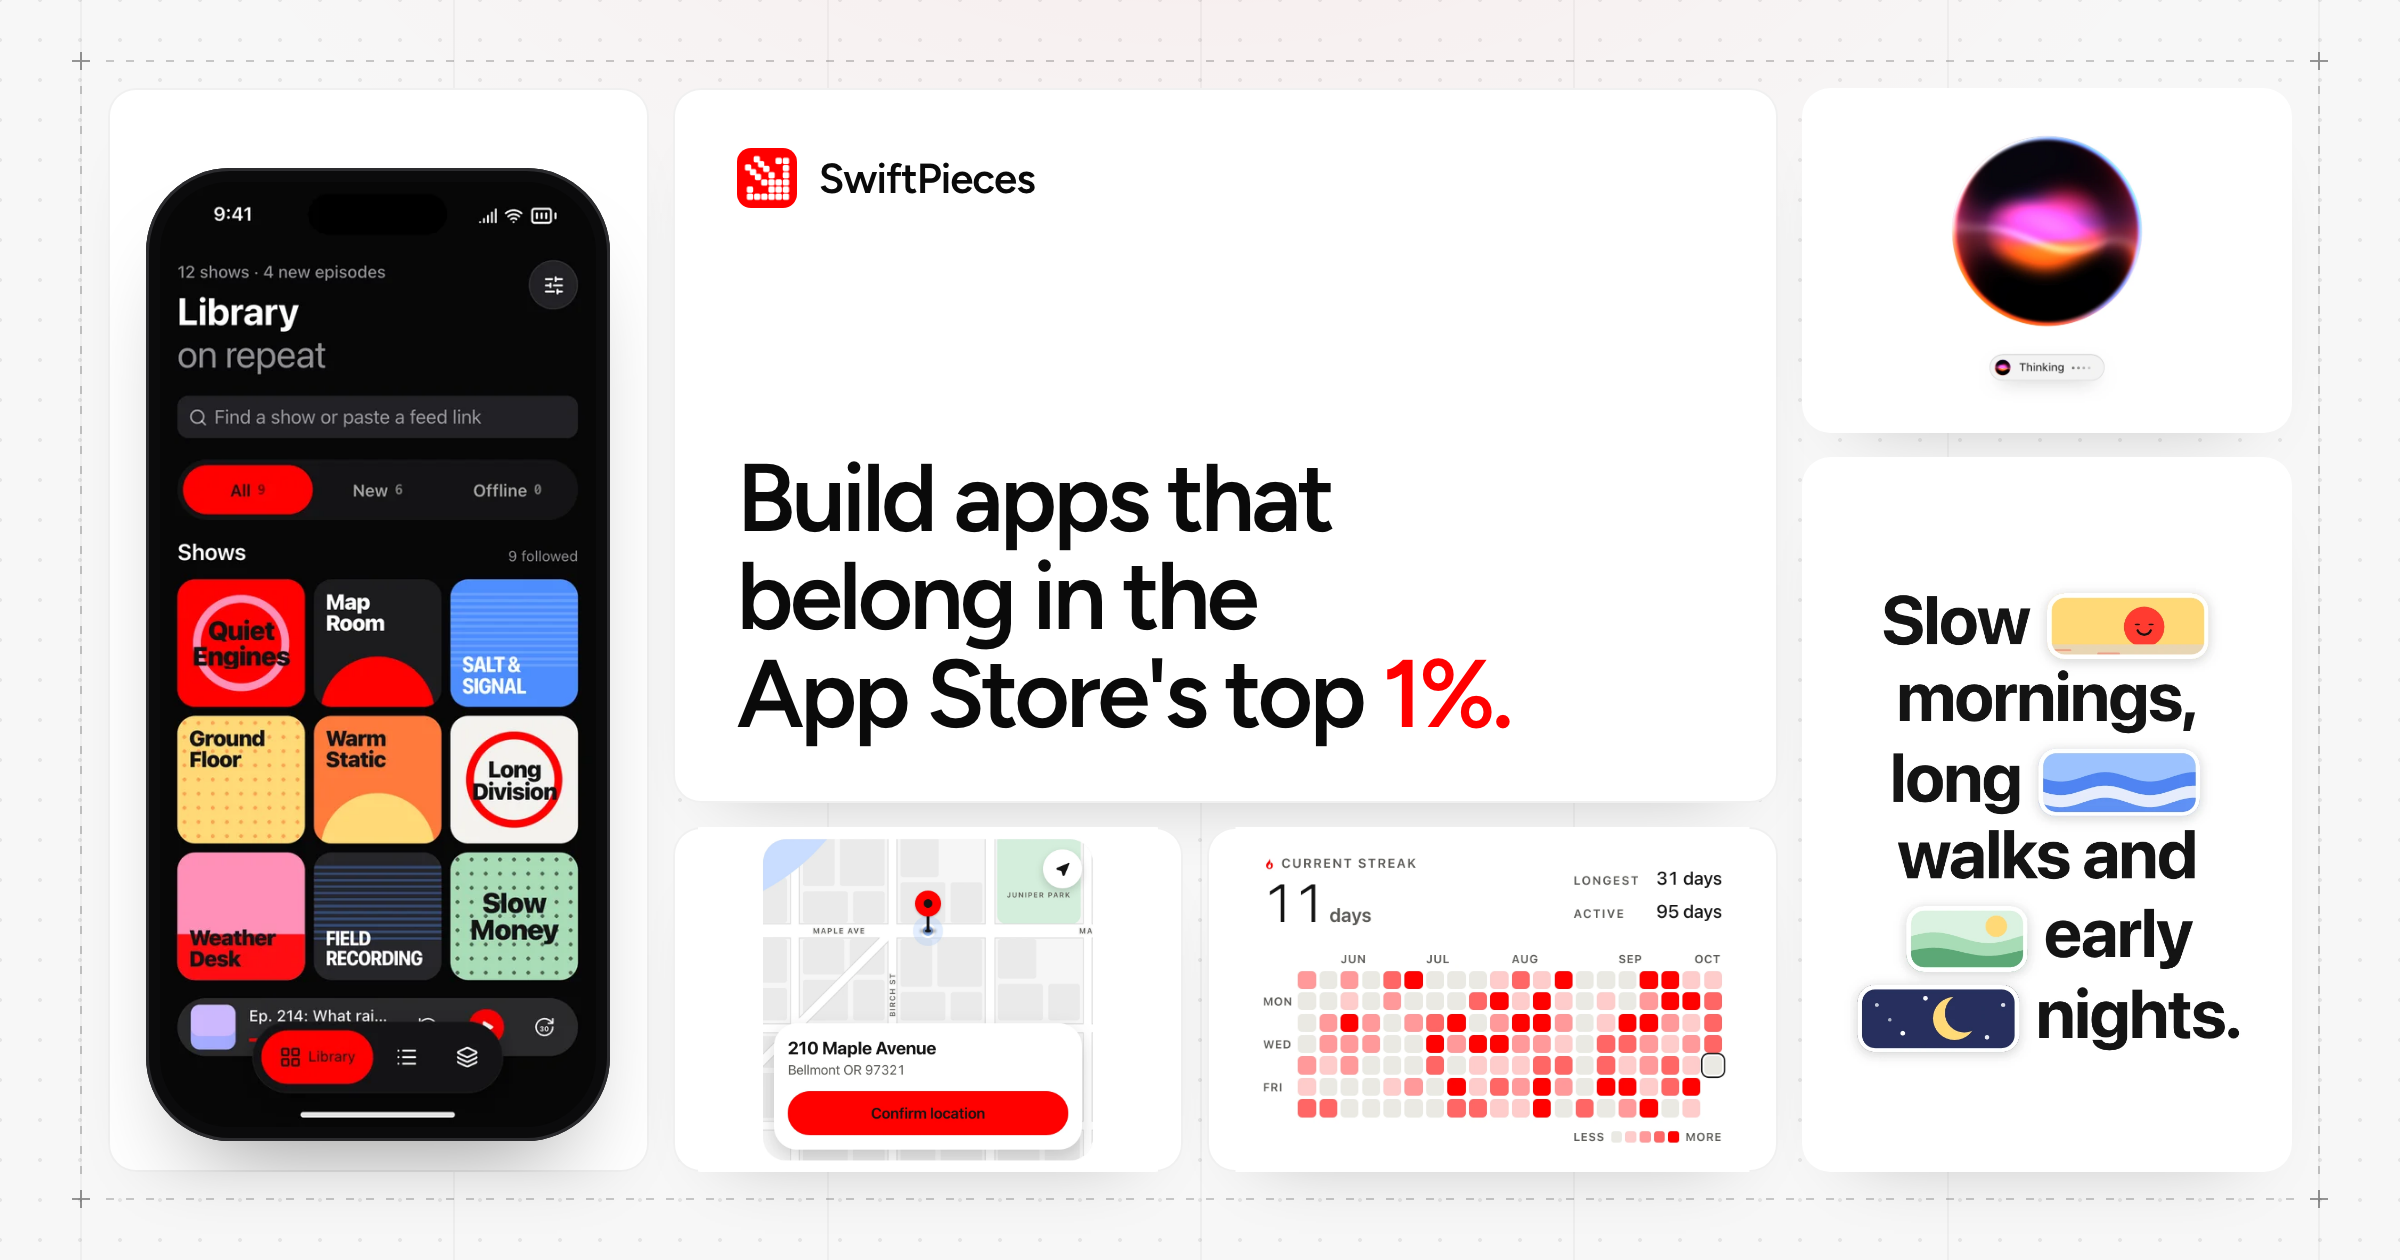
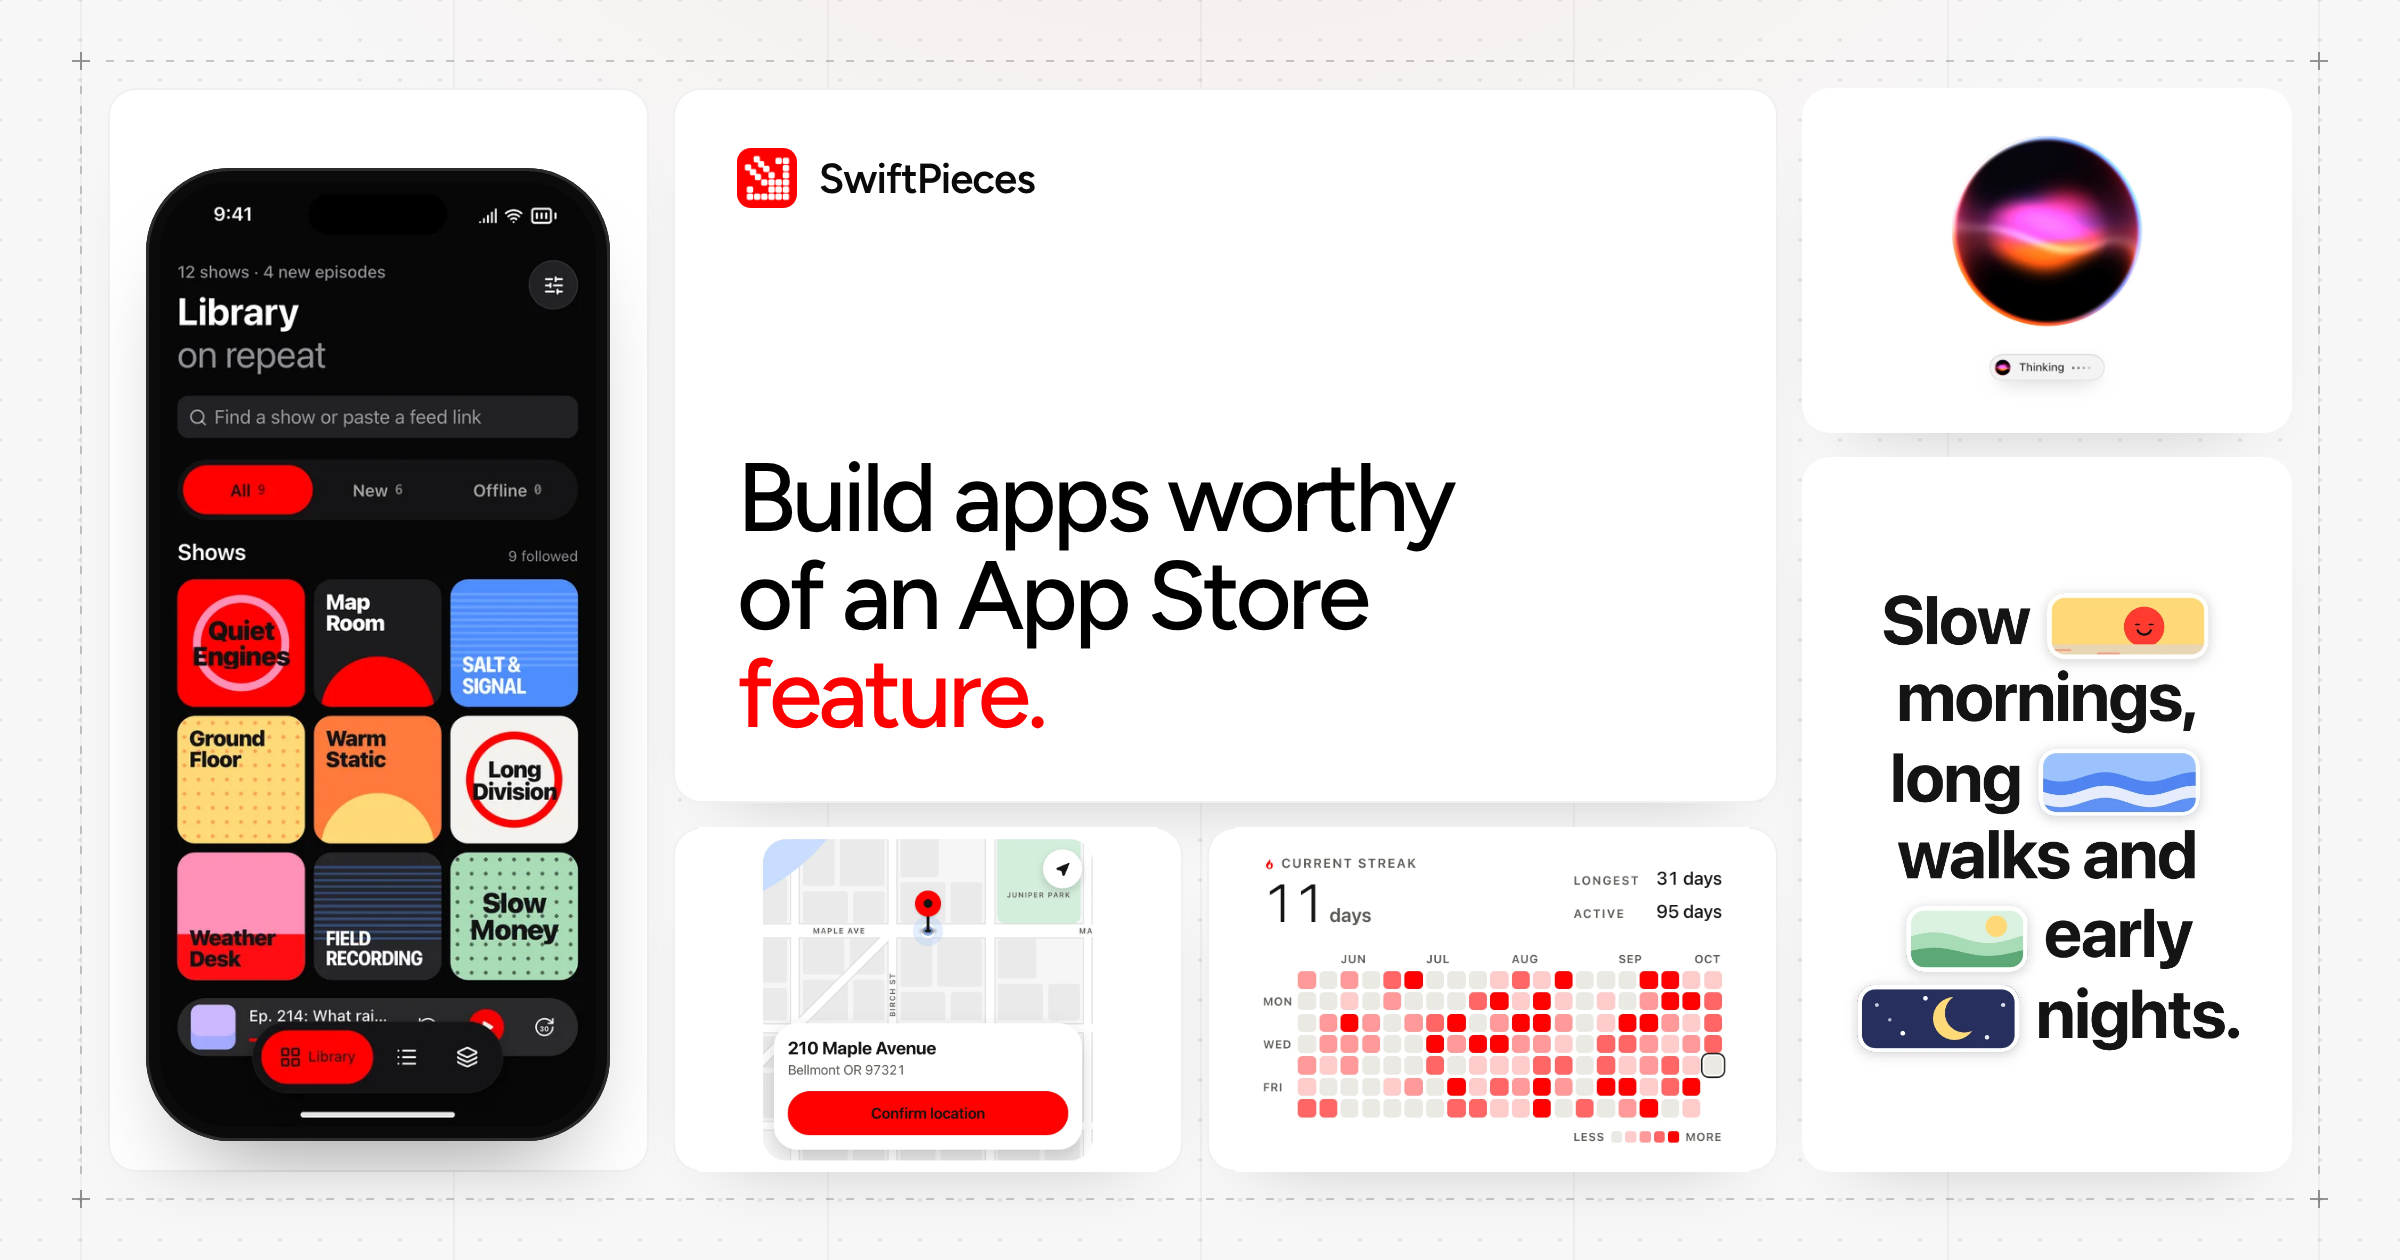
feat(copy): replace "top 1%" headline with App Store feature line (#57)
Hero, Pro landing and Blocks headlines now read "Build apps worthy of an App Store feature." and "Every flow a featured app needs.". The share card is re-rendered with the new headline and its cache version bumped to v=11.

Changed region(s): [[0.3125, 0.3714, 0.625, 0.5881]]

diff --git a/components/sections/pro-landing.tsx b/components/sections/pro-landing.tsx
@@ -53,7 +53,7 @@ export function ProHero() {
       {/* Full-height dot field with a long, soft fade so the dots dissolve well before the gallery instead of stopping on a line. */}
       <Container className="flex flex-col items-center text-center">
         <Reveal priority><Eyebrow>SwiftPieces Pro · Production-ready SwiftUI</Eyebrow></Reveal>
-        <AnimatedText as="h1" text="Every flow a top 1% app needs." accent="1%" className={cn("mt-8 max-w-4xl", heroTitle)} />
+        <AnimatedText as="h1" text="Every flow a featured app needs." accent="featured" className={cn("mt-8 max-w-4xl", heroTitle)} />
         <Reveal priority delay={0.35}>
           <p className={cn("mx-auto mt-6 max-w-xl", sectionBody)}>Free is a taste. Pro is the complete library: production-ready screens, whole flows, full app templates, the Build Kit for your coding agent and Pro remixing in the Playground. Copy the source. Make it yours.</p>
         </Reveal>
@@ -236,7 +236,7 @@ export function Compare() {
         />
         <Reveal className="mt-12 grid gap-3 lg:grid-cols-2 lg:gap-y-0">
           <PlanCard tag="Free library" title="A curated taste of SwiftPieces." body={`${freeCount} animated pieces, Liquid Glass effects and Metal shaders. Genuinely good, and free to ship wherever a screen feels flat.`} points={["MIT + Commons Clause, forever", "Single-file pieces", "Install by CLI, MCP or copy-paste"]} cta="See what Pro adds" />
-          <PlanCard tag="SwiftPieces Pro" title="Every flow a top 1% app needs." body="Complete SwiftUI app flows, templates and screens, and a Build Kit that teaches your coding agent the same design. Install by copy, CLI or MCP." points={[proCountsLabel, remixingPoint, "Full SwiftUI source that lives in your project", "Lifetime access, everything added later included"]} cta="Get SwiftPieces Pro" pro />
+          <PlanCard tag="SwiftPieces Pro" title="Every flow a featured app needs." body="Complete SwiftUI app flows, templates and screens, and a Build Kit that teaches your coding agent the same design. Install by copy, CLI or MCP." points={[proCountsLabel, remixingPoint, "Full SwiftUI source that lives in your project", "Lifetime access, everything added later included"]} cta="Get SwiftPieces Pro" pro />
         </Reveal>
       </Container>
     </section>

diff --git a/components/sections/hero.tsx b/components/sections/hero.tsx
@@ -28,7 +28,7 @@ export function Hero() {
           {/* The copy column stops short of the mark, so the headline never runs under it. */}
           <div className="max-w-[46rem]">
             <Reveal priority><Eyebrow>New Components Every Week<LiveViews /></Eyebrow></Reveal>
-            <AnimatedText as="h1" text="Build apps that belong in the App Store's top 1%." accent="1%" className="mt-8 text-[34px] leading-[1.04] font-medium tracking-[-0.035em] text-balance sm:text-[42px] lg:text-[49px]" />
+            <AnimatedText as="h1" text="Build apps worthy of an App Store feature." accent="feature" className="mt-8 text-[34px] leading-[1.04] font-medium tracking-[-0.035em] text-balance sm:text-[42px] lg:text-[49px]" />
             <Reveal priority delay={0.35}><p className={cn("mt-6 max-w-xl", sectionBody)}>The motion, haptics and accessibility the best apps get right, as production SwiftUI components. Install with one command and make them yours.</p></Reveal>       
             <Reveal priority delay={0.45} className="mt-9 flex flex-wrap items-center gap-3">
               <Button href="/components">Browse the library <Arrow /></Button>

diff --git a/app/(marketing)/blocks/page.tsx b/app/(marketing)/blocks/page.tsx
@@ -19,7 +19,7 @@ export default function BlocksPage() {
     <>
       <section className="relative pt-16 md:pt-24">
         <Container>
-          <SectionHeader label="These live in Pro" size="h1" title="Every flow a top 1% app needs." description={`The free library is a curated taste of SwiftPieces. The complete library, ${proCountsLabel}, is SwiftPieces Pro on pro.swiftpieces.com.`} />
+          <SectionHeader label="These live in Pro" size="h1" title="Every flow a featured app needs." description={`The free library is a curated taste of SwiftPieces. The complete library, ${proCountsLabel}, is SwiftPieces Pro on pro.swiftpieces.com.`} />
           <div className="mt-8 flex flex-wrap gap-3">
             <Button href={pro.library} className="group">Browse the Pro library <Arrow /></Button>
             <Button href="/components" variant="ghost">Free components</Button>

diff --git a/lib/seo.ts b/lib/seo.ts
@@ -19,7 +19,7 @@ import { site } from "@/lib/site";
  * is re-rendered (scripts/og/render.sh), as README.md does for the banner, so X, Slack and the rest
  * fetch the new card instead of the one they cached under the old URL.
  */
-export const DEFAULT_OG_IMAGE = { url: `${site.url}/opengraph-image.png?v=10`, width: 1200, height: 630, alt: `${site.name}` };
+export const DEFAULT_OG_IMAGE = { url: `${site.url}/opengraph-image.png?v=11`, width: 1200, height: 630, alt: `${site.name}` };
 
 /** Longest meta description before search results start cutting it off. */
 const DESCRIPTION_MAX = 155;

diff --git a/README.md b/README.md
@@ -1,6 +1,6 @@
 <div align="center">
   <a href="https://swiftpieces.com">
-    <img src="app/opengraph-image.png?v=10" alt="SwiftPieces" width="100%" />
+    <img src="app/opengraph-image.png?v=11" alt="SwiftPieces" width="100%" />
   </a>
 </div>
 
